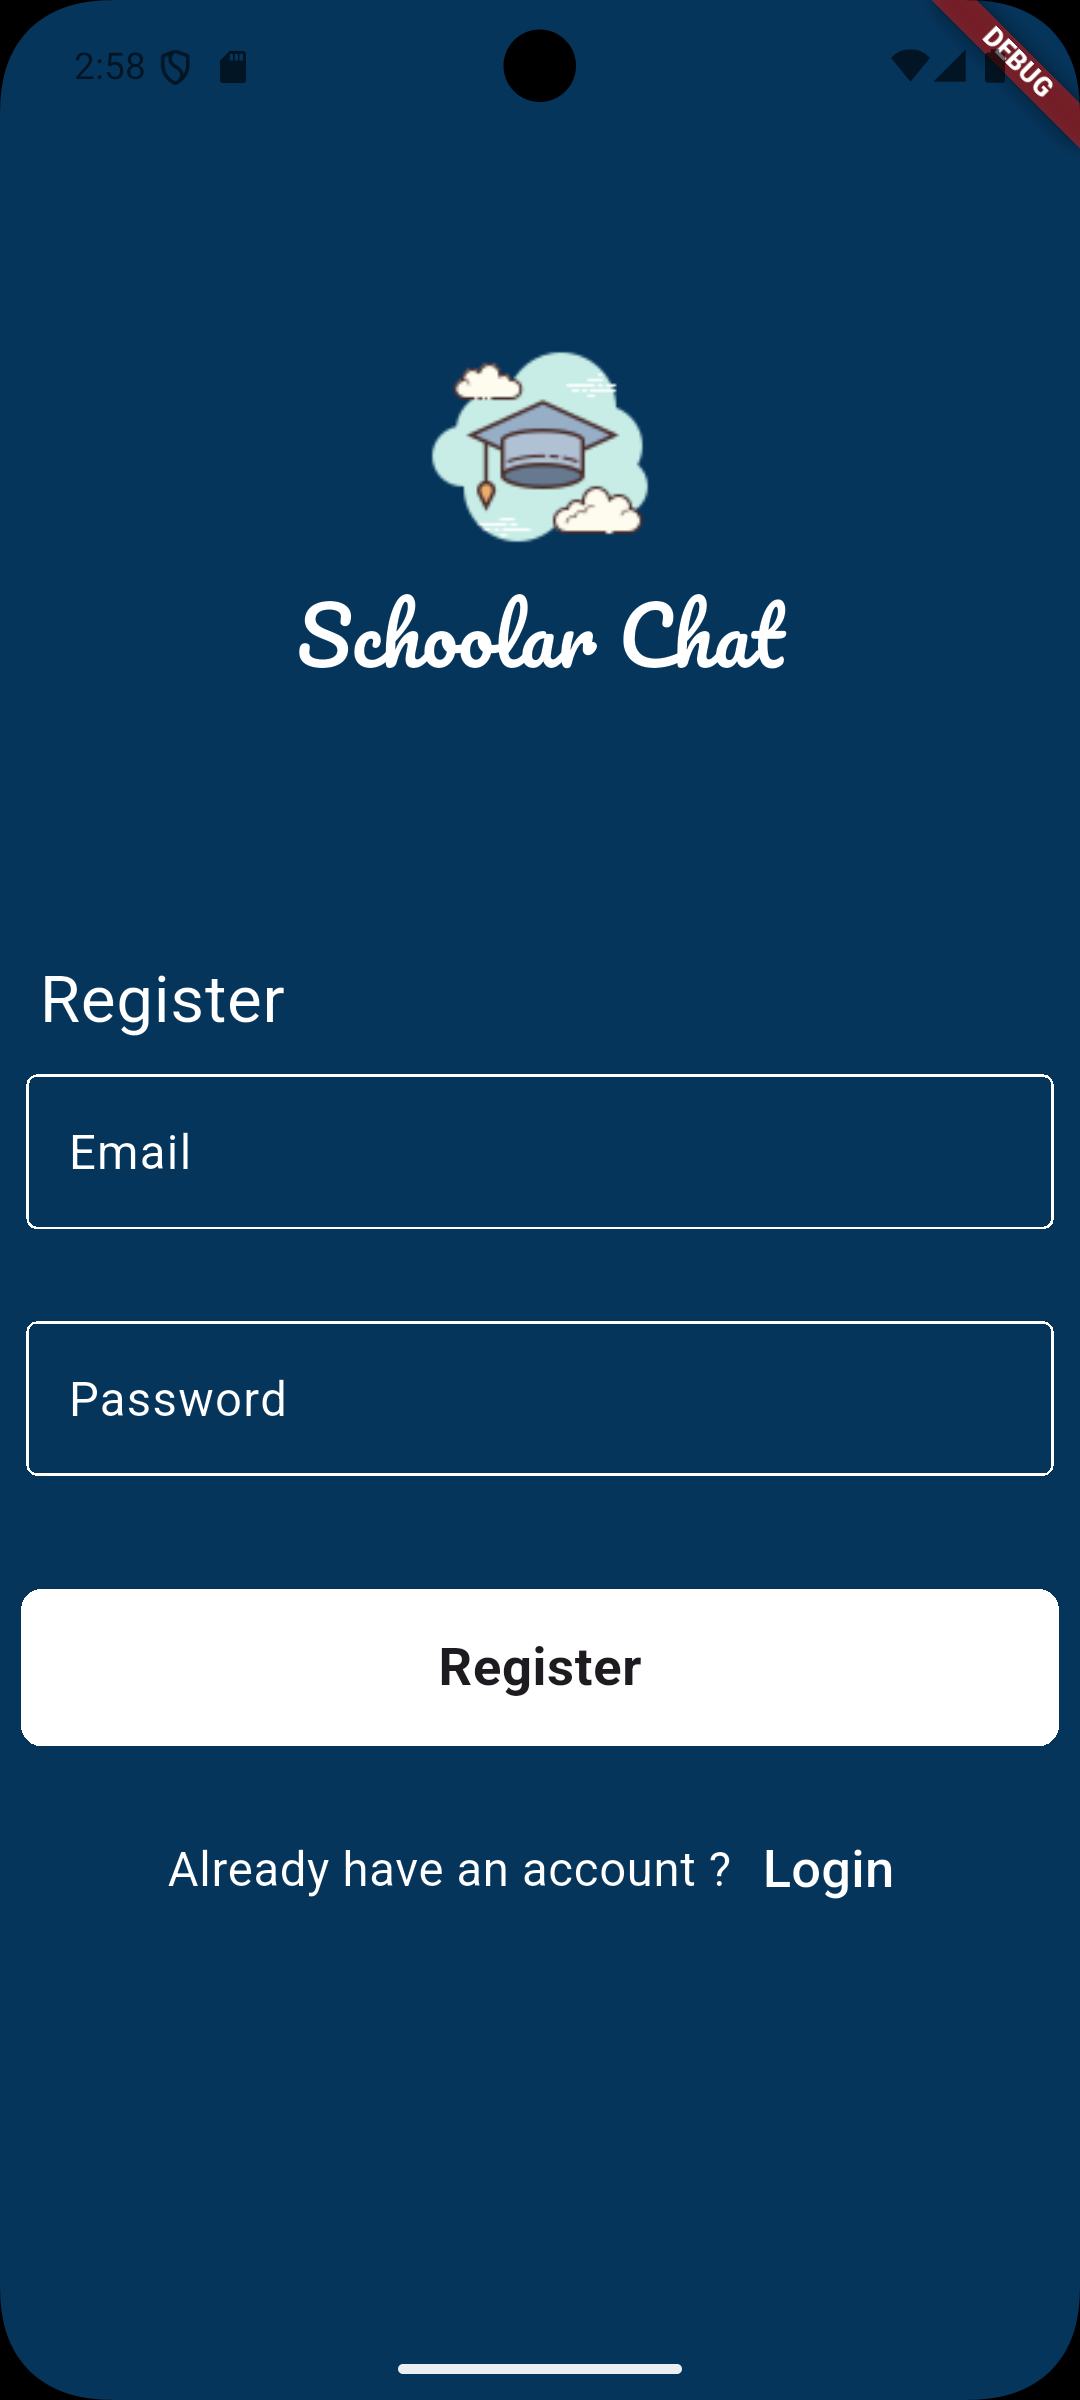
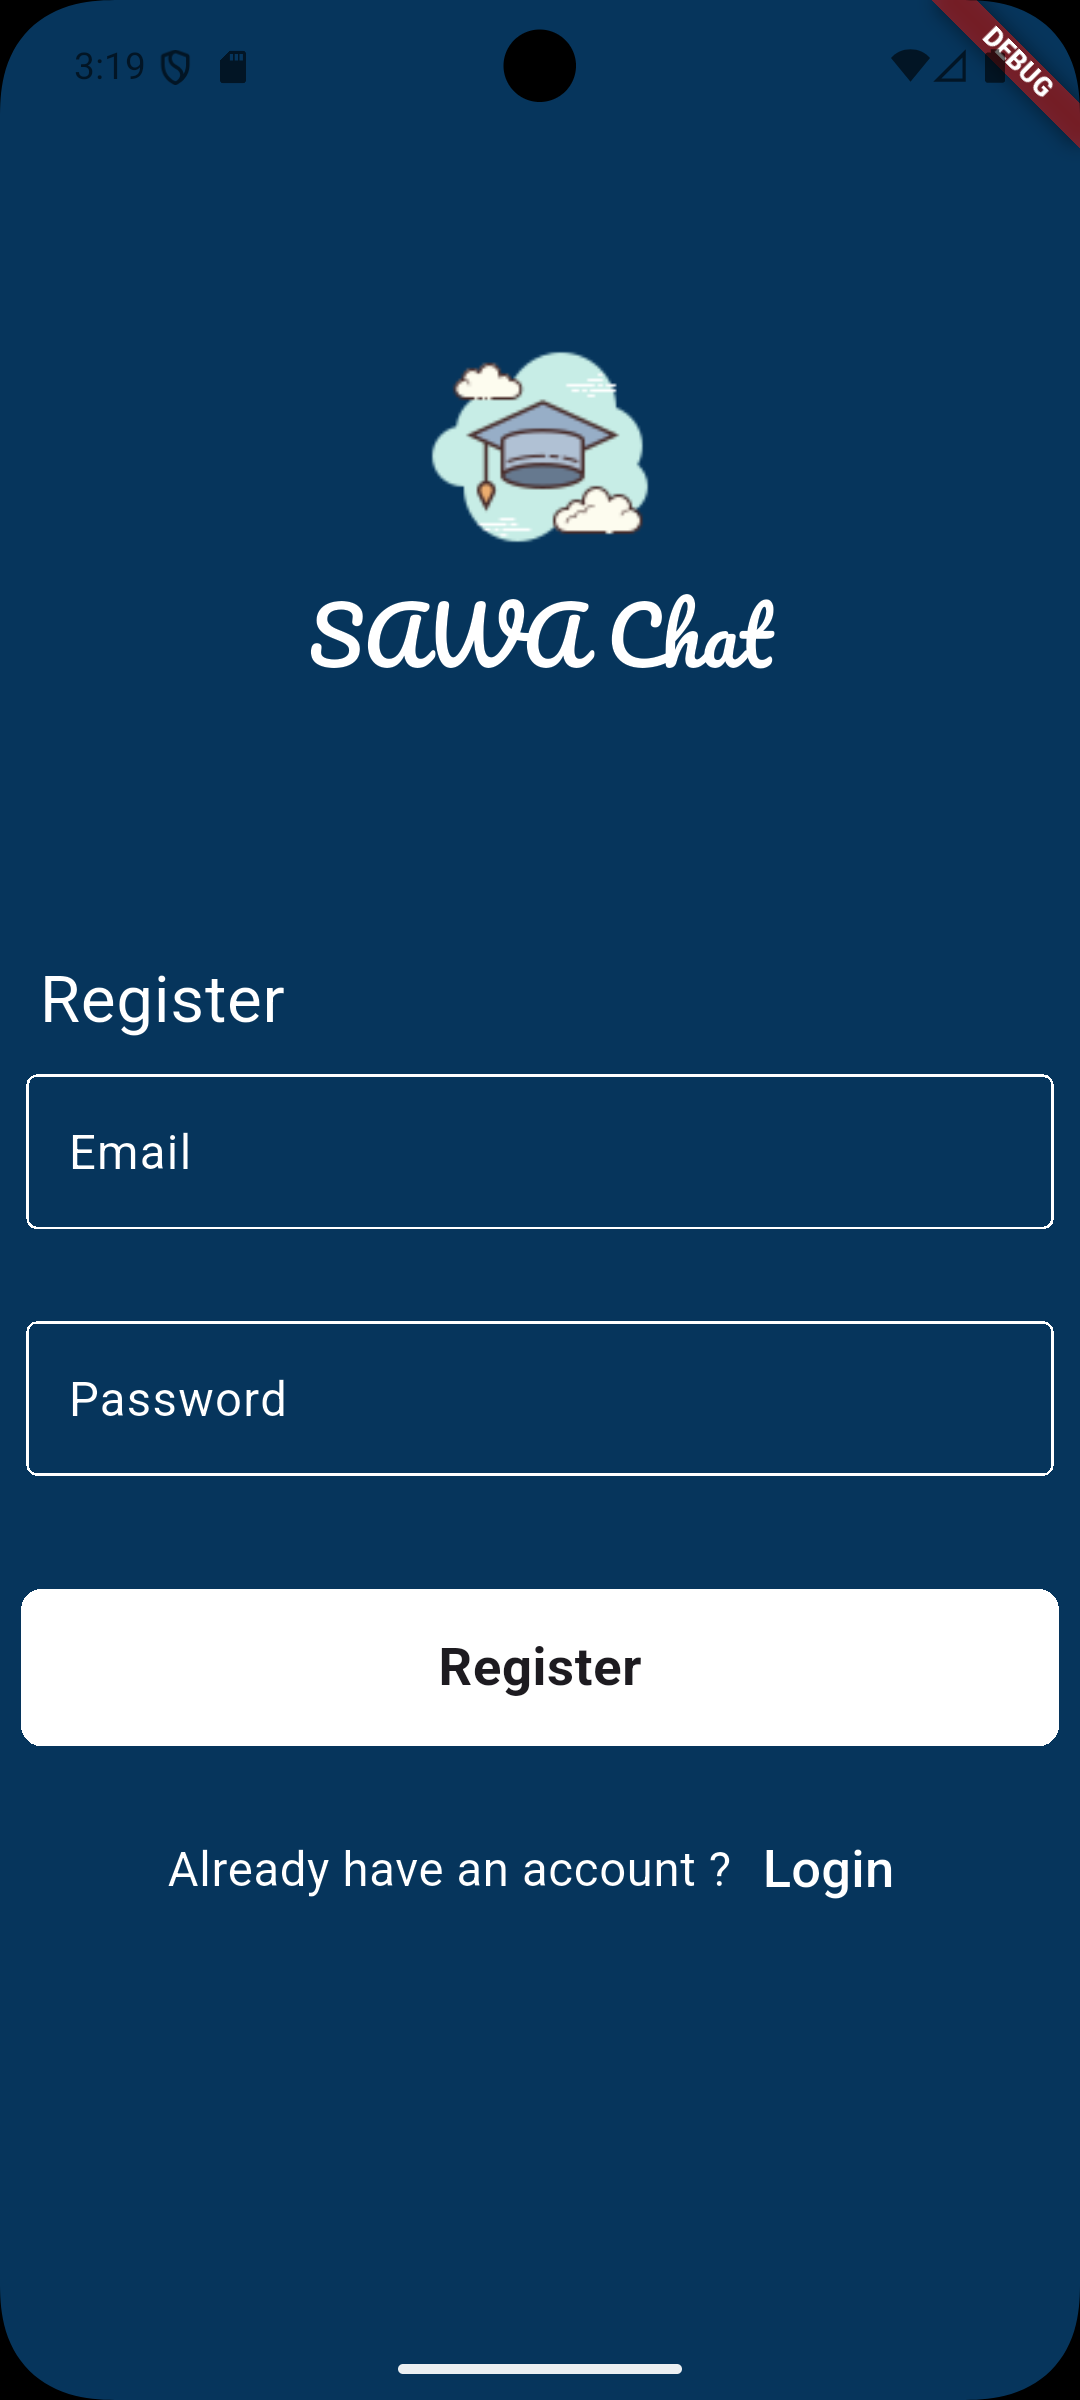
update the name SAWA

Changed region(s): [[0.275, 0.25, 0.7333, 0.2812]]

diff --git a/lib/screens/login.dart b/lib/screens/login.dart
@@ -76,7 +76,7 @@ class _loginPageState extends State<loginPage> {
                     child: Image.asset('assets/images/scholar.png'),
                   ),
                   Text(
-                    'Schoolar Chat',
+                    'SAWA Chat',
                     style: TextStyle(
                       color: Colors.white,
                       fontSize: 30,

diff --git a/lib/screens/register.dart b/lib/screens/register.dart
@@ -79,7 +79,7 @@ class _RegisterPageState extends State<RegisterPage> {
                     child: Image.asset('assets/images/scholar.png'),
                   ),
                   Text(
-                    'Schoolar Chat',
+                    'SAWA Chat',
                     style: TextStyle(
                       color: Colors.white,
                       fontSize: 30,